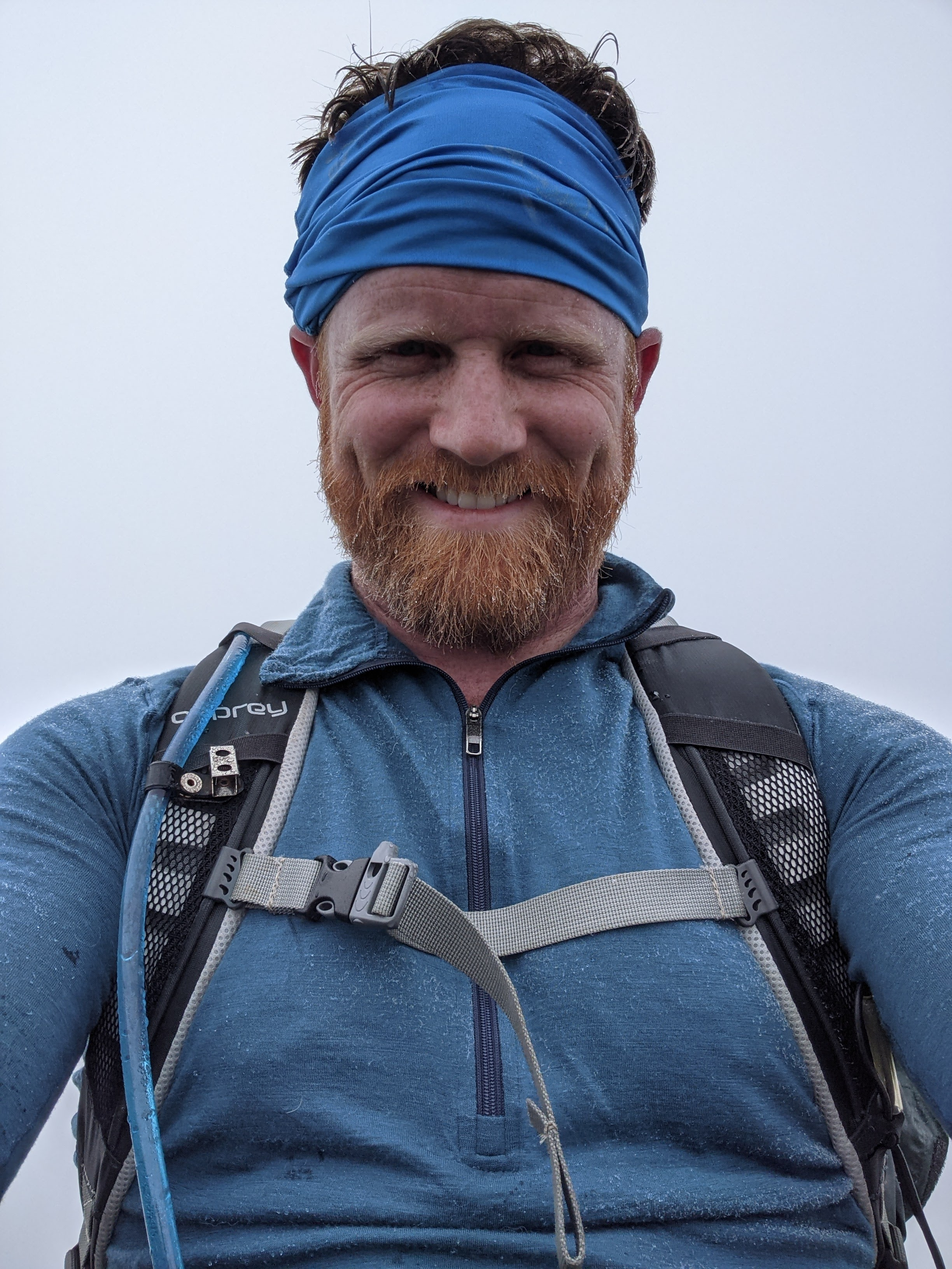
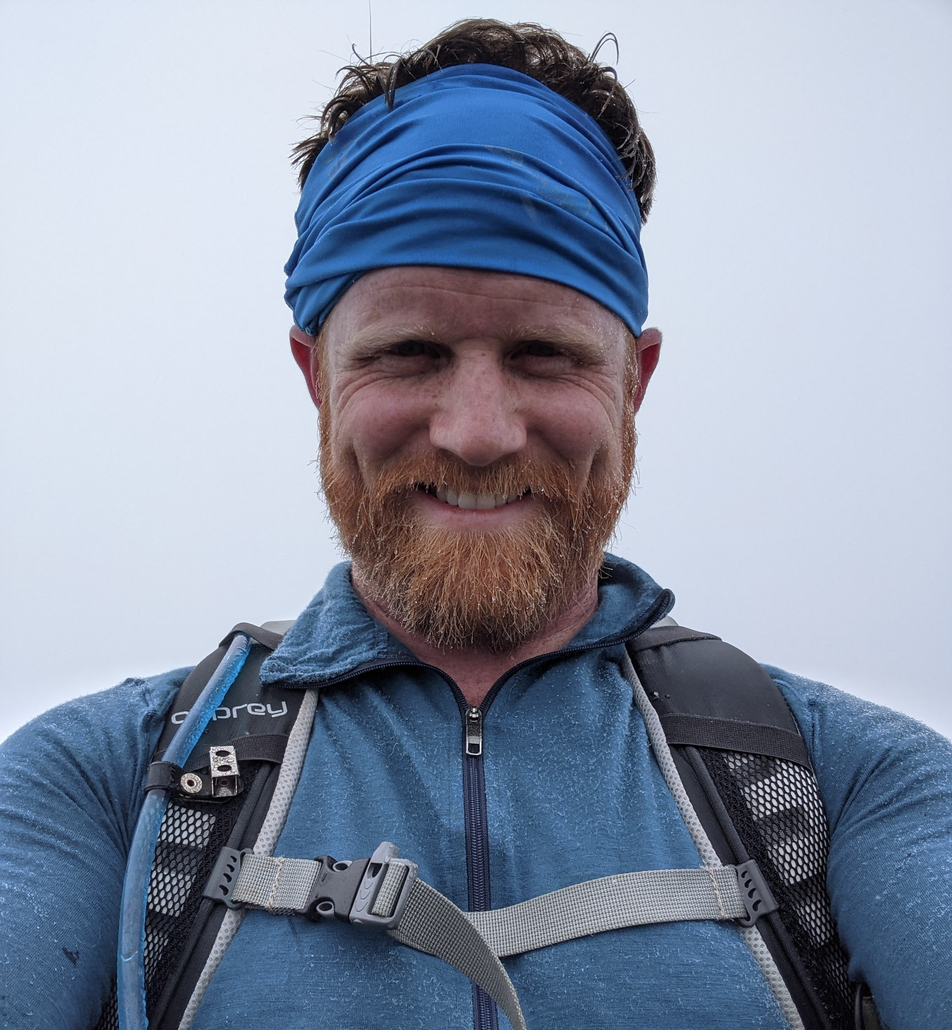
updating main photo on home page and header photo and words

diff --git a/index.html b/index.html
@@ -4,12 +4,12 @@
     <title>Harrison Reed | Data Portfolio</title>
     <meta charset="utf-8">
     <meta name="viewport" content="width=device-width, initial-scale=1, shrink-to-fit=no">
-    
+
     <link href="https://fonts.googleapis.com/css?family=Poppins:300,400,700" rel="stylesheet">
 
     <link rel="stylesheet" href="css/open-iconic-bootstrap.min.css">
     <link rel="stylesheet" href="css/animate.css">
-    
+
     <link rel="stylesheet" href="css/owl.carousel.min.css">
     <link rel="stylesheet" href="css/owl.theme.default.min.css">
     <link rel="stylesheet" href="css/magnific-popup.css">
@@ -21,7 +21,7 @@
     <link rel="stylesheet" href="css/bootstrap-datepicker.css">
     <link rel="stylesheet" href="css/jquery.timepicker.css">
 
-    
+
     <link rel="stylesheet" href="css/flaticon.css">
     <link rel="stylesheet" href="css/icomoon.css">
     <link rel="stylesheet" href="css/style.css">
@@ -55,21 +55,21 @@
         </div>
       </div>
     </nav>
-    
+
     <div id="colorlib-page">
       <header>
         <div class="container">
           <div class="row">
             <div class="col-md-12">
               <div class="colorlib-navbar-brand">
-                <a class="colorlib-logo" href="index.html"><span class="logo-img" style="background-image: url(images/person_1.jpg);"></span>Beckham Muff</a>
+                <a class="colorlib-logo" href="index.html"><span class="logo-img" style="background-image: url(images/person_1.jpg);"></span>Harrison Reed</a>
               </div>
               <a href="#" class="js-colorlib-nav-toggle colorlib-nav-toggle"><i></i></a>
             </div>
           </div>
         </div>
       </header>
-    
+
       <section class="home-slider owl-carousel js-fullheight">
         <div class="slider-item js-fullheight">
           <div class="overlay"></div>
@@ -141,7 +141,7 @@
                   <h3 class="heading">Mobile App Design</h3>
                   <h3 class="heading">Responsive Design</h3>
                 </div>
-              </div>      
+              </div>
             </div>
             <div class="col-md-4 d-flex align-self-stretch ftco-animate">
               <div class="media block-6 services p-3 py-4 d-block text-center">
@@ -151,7 +151,7 @@
                   <h3 class="heading">Design Sprints</h3>
                   <h3 class="heading">UX Strategy</h3>
                 </div>
-              </div>      
+              </div>
             </div>
             <div class="col-md-4 d-flex align-self-stretch ftco-animate">
               <div class="media block-6 services p-3 py-4 d-block text-center">
@@ -161,7 +161,7 @@
                   <h3 class="heading">Prototyping</h3>
                   <h3 class="heading">User Testing</h3>
                 </div>
-              </div>    
+              </div>
             </div>
           </div>
         </div>
@@ -298,7 +298,7 @@
           </div>
         </div>
       </section>
-      
+
       <footer class="ftco-footer ftco-bg-dark ftco-section">
         <div class="container">
           <div class="row mb-5 justify-content-center">
@@ -352,6 +352,6 @@
     <script src="https://maps.googleapis.com/maps/api/js?key=AIzaSyBVWaKrjvy3MaE7SQ74_uJiULgl1JY0H2s&sensor=false"></script>
     <script src="js/google-map.js"></script>
     <script src="js/main.js"></script>
-    
+
   </body>
 </html>
